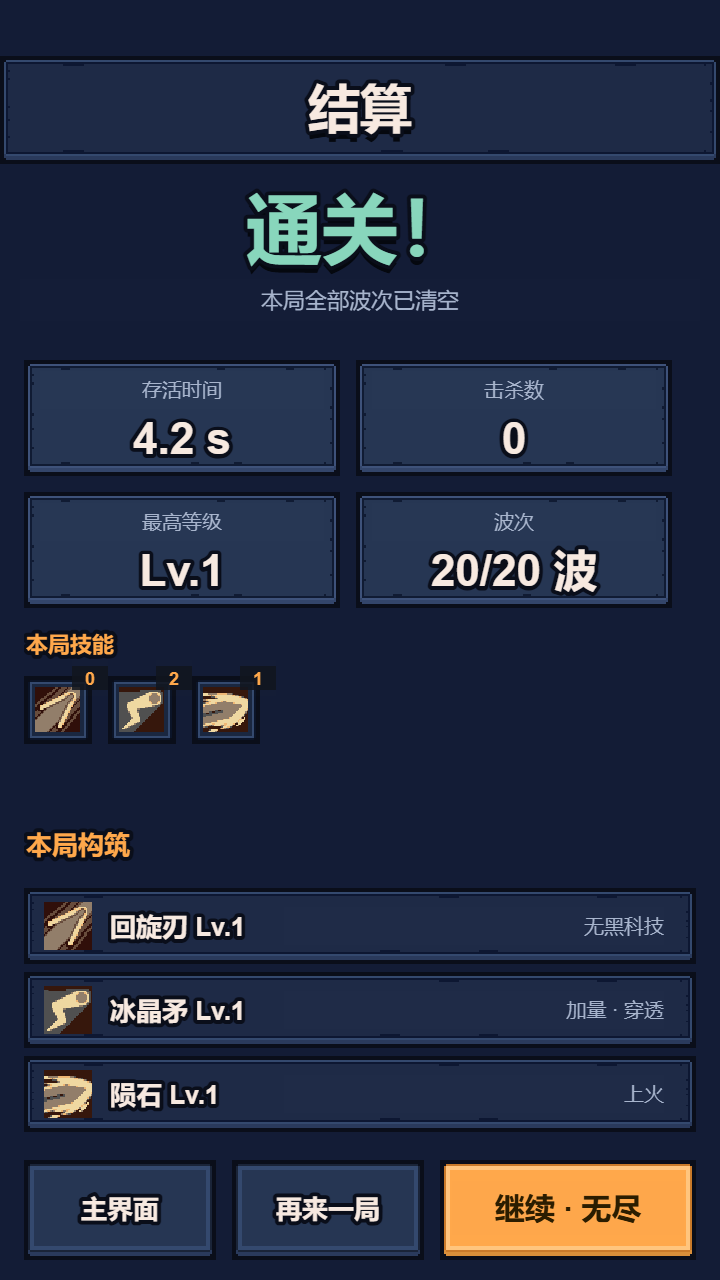
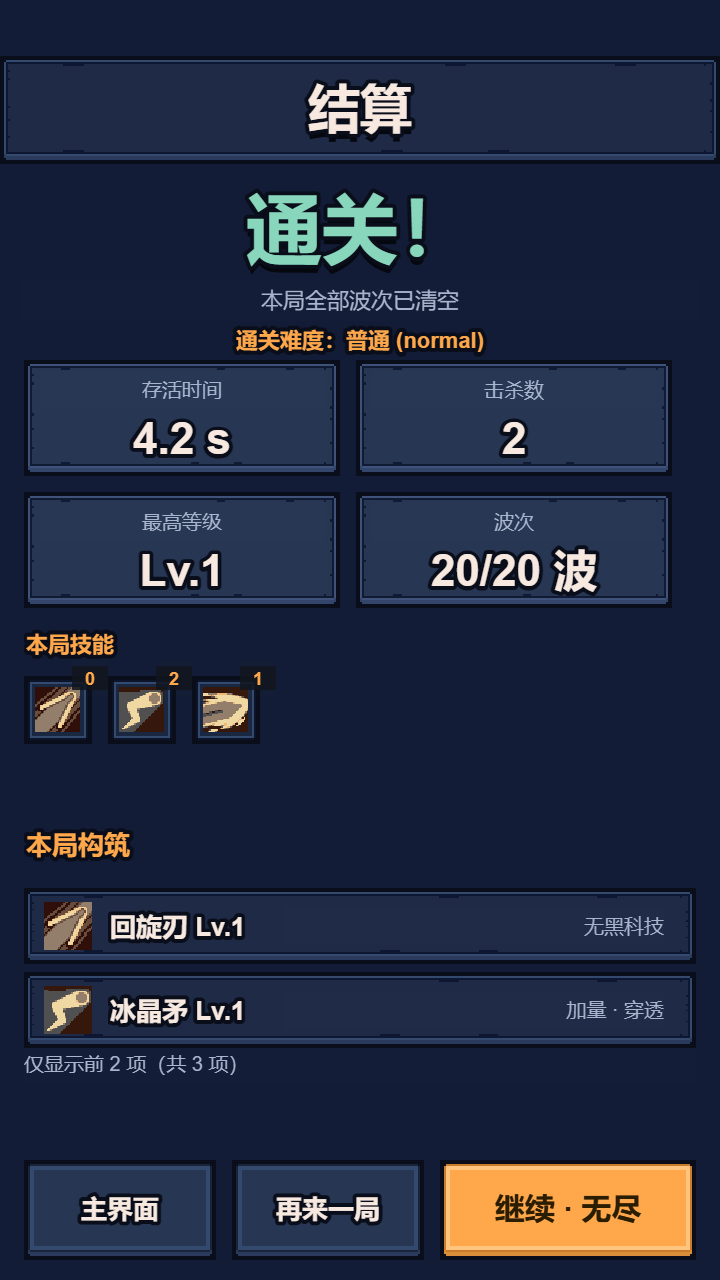
阶段3-步骤2收尾：难度特色规则（地狱保底精英/禁精英波次、噩梦BOSS召唤状态机接入、地狱BOSS狂怒）、通关解锁下一档、结算页显示通关难度；237 单测全绿

Changed region(s): [[0.0306, 0.8125, 0.9778, 0.9062], [0.3056, 0.25, 0.6722, 0.2812], [0.6722, 0.3125, 0.7333, 0.375]]

diff --git a/cocos/assets/scripts/battle/Battle.ts b/cocos/assets/scripts/battle/Battle.ts
@@ -32,6 +32,7 @@ import { ENEMIES, bossUnitFor } from '../data/Enemies';
 import { baseOf, modEffect } from '../data/Modules';
 import { FxPrefs } from '../game/Prefs';
 import { difficultyOf, healAmount, healBudget, spawnInterval } from '../data/Difficulties';
+import { BossSummonState } from '../game/BossSummon';
 import type { DifficultyId } from '../data/Difficulties';
 import { DamageContext, DamageSource, makeDamageContext, canVamp, nextCastId, ModuleUsage } from '../game/DamageContext';
 import { killblastDamage, killblastRadius, shieldAmount, SHIELD_CAP, SHIELD_COOLDOWN, SHIELD_DURATION, executePct, returnstrikePct, overchargePeriod, overchargeMul, lingeringChance, LINGER_TICKS, LINGER_TICK_DMG, LINGER_MAX_ZONES } from '../game/ModuleValues';
@@ -47,6 +48,10 @@ const DEBUG_HUD = false;
 
 // ---------- 实体 ----------
 interface Enemy {
+  /** 是否为 BOSS 召唤出来的小怪（噩梦难度） */
+  summoned?: boolean;
+  /** BOSS 是否已进入狂怒（地狱） */
+  enraged?: boolean;
   node: Node; anim: FrameAnim; unit: string;
   x: number; y: number; hp: number; maxhp: number;
   spd: number; dmg: number; r: number; exp: number; gold: number;
@@ -205,6 +210,8 @@ export class Battle extends Component {
   /** 本波最高同屏（日志用） */
   private waveAliveMax = 0;
   private bossRef: Enemy | null = null;
+  /** 噩梦 BOSS 召唤状态机 */
+  private bossSummon: BossSummonState | null = null;
   private bossDefeated = false;
   private hitstop = 0;
   private running = false;
@@ -1364,6 +1371,7 @@ export class Battle extends Component {
     this.updatePlayer(dt);
     this.updateSkills(dt);
     this.updateSpawn(dt);
+    this.updateBossMechanics();
     this.updateEnemies(dt);
     this.updateBullets(dt);
     this.updateAreas(dt);
@@ -1445,6 +1453,35 @@ export class Battle extends Component {
     return n;
   }
 
+  /** BOSS 难度机制：地狱狂怒 / 噩梦召唤（状态机驱动） */
+  private updateBossMechanics(): void {
+    const boss = this.bossRef;
+    if (!boss || boss.dead) { this.bossSummon?.onBossDead(); return; }
+    const cfg = difficultyOf(this.rs.difficulty);
+
+    // 地狱：血量 <30% 进入狂怒（一次性）
+    const enr = cfg.rules.find(r => r.kind === 'bossEnrage');
+    if (enr && enr.kind === 'bossEnrage' && !boss.enraged && boss.maxhp > 0 && boss.hp / boss.maxhp < enr.thresholdPct / 100) {
+      boss.enraged = true;
+      boss.dmg *= enr.dmgMul;
+      boss.spd *= enr.speedMul;
+    }
+
+    // 噩梦：按状态机召唤（每个阈值一次、12s 间隔、同屏 <=6）
+    const sum = cfg.rules.find(r => r.kind === 'bossSummon');
+    if (!sum || sum.kind !== 'bossSummon') return;
+    if (!this.bossSummon) this.bossSummon = new BossSummonState(sum);
+    let alive = 0;
+    for (const e of this.enemies) if (!e.dead && e.summoned) alive++;
+    const n = this.bossSummon.update(boss.maxhp > 0 ? (boss.hp / boss.maxhp) * 100 : 100, this.runTime, alive);
+    for (let i = 0; i < n; i++) {
+      const ang = this.rs.rng.range(0, Math.PI * 2);
+      this.spawnEnemy('goblin', boss.x + Math.cos(ang) * 40, boss.y + Math.sin(ang) * 40, 1);
+      const e = this.enemies[this.enemies.length - 1];
+      if (e) { e.summoned = true; e.maxhp *= sum.hpMul; e.hp = e.maxhp; e.dmg *= sum.dmgMul; }
+    }
+  }
+
   private updateSpawn(dt: number) {
     if (this.bossRef && !this.bossRef.dead) return;
     // ★ 活怪上限（玩法审计 §8.2）：硬上限停刷，软上限把间隔拉长，避免同屏无限堆积
@@ -1462,9 +1499,14 @@ export class Battle extends Component {
       const p = this.spawnPt();
       this.spawnEnemy(this.rs.rng.pick(pool), p.x, p.y);
     }
-    if (this.rs.wave > 1 && this.waveLeft > 0) {
+    // 难度规则：休闲前 N 波禁精英；地狱指定波次保底至少 1 只
+    const dcfg = difficultyOf(this.rs.difficulty);
+    const noElite = dcfg.rules.some(r => r.kind === 'noEliteUntilWave' && this.rs.wave <= r.wave);
+    const guaranteed = dcfg.rules.some(r => r.kind === 'eliteGuaranteedWaves' && r.waves.indexOf(this.rs.wave) >= 0);
+    if (!noElite && this.rs.wave > 1 && this.waveLeft > 0) {
       const prog = 1 - this.waveLeft / waveTime(this.rs.wave);
-      if (prog > 0.3 && this.elitesSpawned < this.rs.elitesThisWave) {
+      const want = Math.max(this.rs.elitesThisWave, guaranteed ? 1 : 0);
+      if ((prog > 0.3 || guaranteed) && this.elitesSpawned < want) {
         this.elitesSpawned++;
         const p = this.spawnPt();
         this.spawnEnemy('gnollberserker', p.x, p.y, 1 + 0.2 * this.rs.wave);

diff --git a/cocos/assets/scripts/GameRoot.ts b/cocos/assets/scripts/GameRoot.ts
@@ -20,6 +20,7 @@ import { Hud, type HudData } from './ui/Hud';
 import { buildMenu, buildHowto, buildCharSelect, buildResult, type ResultBuildRow } from './ui/MenuScreens';
 import { buildSettings } from './ui/MetaScreens';
 import { buildDifficultySelect } from './ui/DifficultyScreens';
+import { nextDifficulty, difficultyOf } from './data/Difficulties';
 import type { DifficultyId } from './data/Difficulties';
 import { buildCodex, buildAchievements } from './ui/CodexScreens';
 import { applyFxPrefs } from './game/Prefs';
@@ -243,6 +244,17 @@ export class GameRoot extends Component {
     this.cur = buildHowto(this.uiRoot, () => this.showMenu());
   }
   /** 难度选择页：菜单 → 难度 → 选角 */
+  /** 通关当前难度后解锁下一档（写存档） */
+  private unlockNextDifficulty(): void {
+    const cur: DifficultyId = this.save.selectedDifficulty ?? 'normal';
+    const next = nextDifficulty(cur);
+    if (next && this.save.difficulties.indexOf(next) < 0) {
+      this.save.difficulties.push(next);
+      writeSave(this.save);
+      console.log('[Difficulty] 通关 ' + cur + ' → 解锁 ' + next);
+    }
+  }
+
   private showDifficulty() {
     this.closeModal();
     if (this.cur && this.cur.isValid) this.cur.destroy();
@@ -793,6 +805,7 @@ private installReturn: 'levelup' | 'pause' | 'shop' | 'nextwave' = 'levelup';
 
   // ---------- 11. 结算 ----------
   private showResult(win: boolean) {
+    if (win) this.unlockNextDifficulty();
     // 结算前清掉所有残留屏（暂停抽屉/升级卡/商店），否则它们会浮在结算页上方（用户截图确认）
     if (this.cur && this.cur.isValid) { this.cur.destroy(); this.cur = null; }
     if (this.curModal && this.curModal.isValid) { this.curModal.destroy(); this.curModal = null; }
@@ -856,6 +869,7 @@ private installReturn: 'levelup' | 'pause' | 'shop' | 'nextwave' = 'levelup';
         { win, wave: rs.wave, lv: rs.lv, kills: rs.kills, time: rs.runTime, build,
           gold: rs.gold, seed: this.seed, waveTotal: RUN.waves, endless: rs.endless,
           maxAlive: this.battle.maxAlive,
+          difficultyName: (difficultyOf(this.battle.rs.difficulty).name) + ' (' + this.battle.rs.difficulty + ')',
           skills: rs.skills.map(s => {
             const def = SKILLS[s.id];
             return { name: def ? def.name : s.id, icon: def ? def.icon : undefined, mods: s.mods.length };

diff --git a/cocos/tests/run.ts b/cocos/tests/run.ts
@@ -29,7 +29,7 @@ import { defaultSave } from '../assets/scripts/game/Progress';
 import { balance, balanceOverride, balanceReset, DEFAULT_BALANCE } from '../assets/scripts/core/Balance';
 import { canSourceTriggerModules, makeDamageContext, canHarvest, canVamp, ModuleUsage, type DamageSource } from '../assets/scripts/game/DamageContext';
 import { killblastDamage, killblastRadius, shieldAmount, SHIELD_CAP, SHIELD_COOLDOWN, SHIELD_DURATION, executePct, returnstrikePct, lingeringChance, LINGER_TICKS, LINGER_TICK_DMG, LINGER_MAX_ZONES, overchargePeriod, overchargeMul } from '../assets/scripts/game/ModuleValues';
-import { DIFFICULTIES, difficultyOf, eliteChance, spawnInterval, shopPrice, healAmount, healBudget } from '../assets/scripts/data/Difficulties';
+import { nextDifficulty, DIFFICULTIES, difficultyOf, eliteChance, spawnInterval, shopPrice, healAmount, healBudget } from '../assets/scripts/data/Difficulties';
 import { BossSummonState } from '../assets/scripts/game/BossSummon';
 import { migrateDifficulty } from '../assets/scripts/game/Progress';
 import { splitBullets, echoRepeats, echoDelay, burnDuration, burnTickMul, frostSlowPct, frostDuration, slowFor } from '../assets/scripts/game/ModuleScale';
@@ -710,6 +710,10 @@ console.log('\n== 5p. 难度系统（数值 + 迁移 + 召唤状态机） ==');
   ok(Math.abs(healAmount(10, 'normal', 0.2) - 10) < 1e-9, '普通回血不加成');
   ok(Math.abs(healAmount(10, 'casual', 0.2) - 14.4) < 1e-9, '休闲低血回血 = 10 x1.2 x1.2');
   ok(healBudget('normal') === null && healBudget('nightmare') === 6, '普通无预算，噩梦 6HP/s');
+  ok(nextDifficulty('normal') === 'hard', '普通通关解锁困难');
+  ok(nextDifficulty('nightmare') === 'hell', '噩梦通关解锁地狱');
+  ok(nextDifficulty('hell') === null, '最高难度不再解锁');
+
 
   // 存档迁移：只补不改
   const old = { wins: 3 } as unknown as SaveData;

diff --git a/cocos/assets/scripts/ui/MenuScreens.ts b/cocos/assets/scripts/ui/MenuScreens.ts
@@ -364,7 +364,8 @@ export function buildResult(parent: Node,
                                      build: ResultBuildRow[]; gold?: number; seed?: number;
                                      waveTotal?: number; endless?: boolean; maxAlive?: number;
                                      items?: { name: string; icon?: string; count: number }[];
-  skills?: { name: string; icon?: string; mods: number }[] },
+  skills?: { name: string; icon?: string; mods: number }[];
+  difficultyName?: string },
                             onMenu: () => void, onRetry: () => void,
                             onContinue?: () => void): Node {
   const vs = view.getVisibleSize(); const VW = vs.width, VH = vs.height;
@@ -383,6 +384,11 @@ export function buildResult(parent: Node,
   const sub = at2(180, S + 122);
   text(root, sub.x, sub.y, stats.win ? '本局全部波次已清空' : '再撑久一点，下一局会更强',
     { size: 11, color: COL.dim, width: 340 });
+  // 本局难度（设计 v6：结算页必须显示）
+  if (stats.difficultyName) {
+    text(root, sub.x, sub.y - 20, '通关难度：' + stats.difficultyName,
+      { size: 11, color: COL.accent, width: 340, bold: true, outline: true });
+  }
 
   // 4 个统计卡（2x2）—— 规格 §9：只展示真实存在的数据
   const waveLine = stats.win

diff --git a/cocos/assets/scripts/data/Difficulties.ts b/cocos/assets/scripts/data/Difficulties.ts
@@ -156,3 +156,11 @@ export function healAmount(base: number, id: DifficultyId, hpPct: number): numbe
 export function healBudget(id: DifficultyId): number | null {
   return difficultyOf(id).healBudgetPerSecond;
 }
+
+
+/** 通关当前难度后应解锁的下一档（最高档返回 null） */
+export function nextDifficulty(id: DifficultyId): DifficultyId | null {
+  const i = DIFFICULTY_IDS.indexOf(id);
+  if (i < 0 || i >= DIFFICULTY_IDS.length - 1) return null;
+  return DIFFICULTY_IDS[i + 1];
+}
